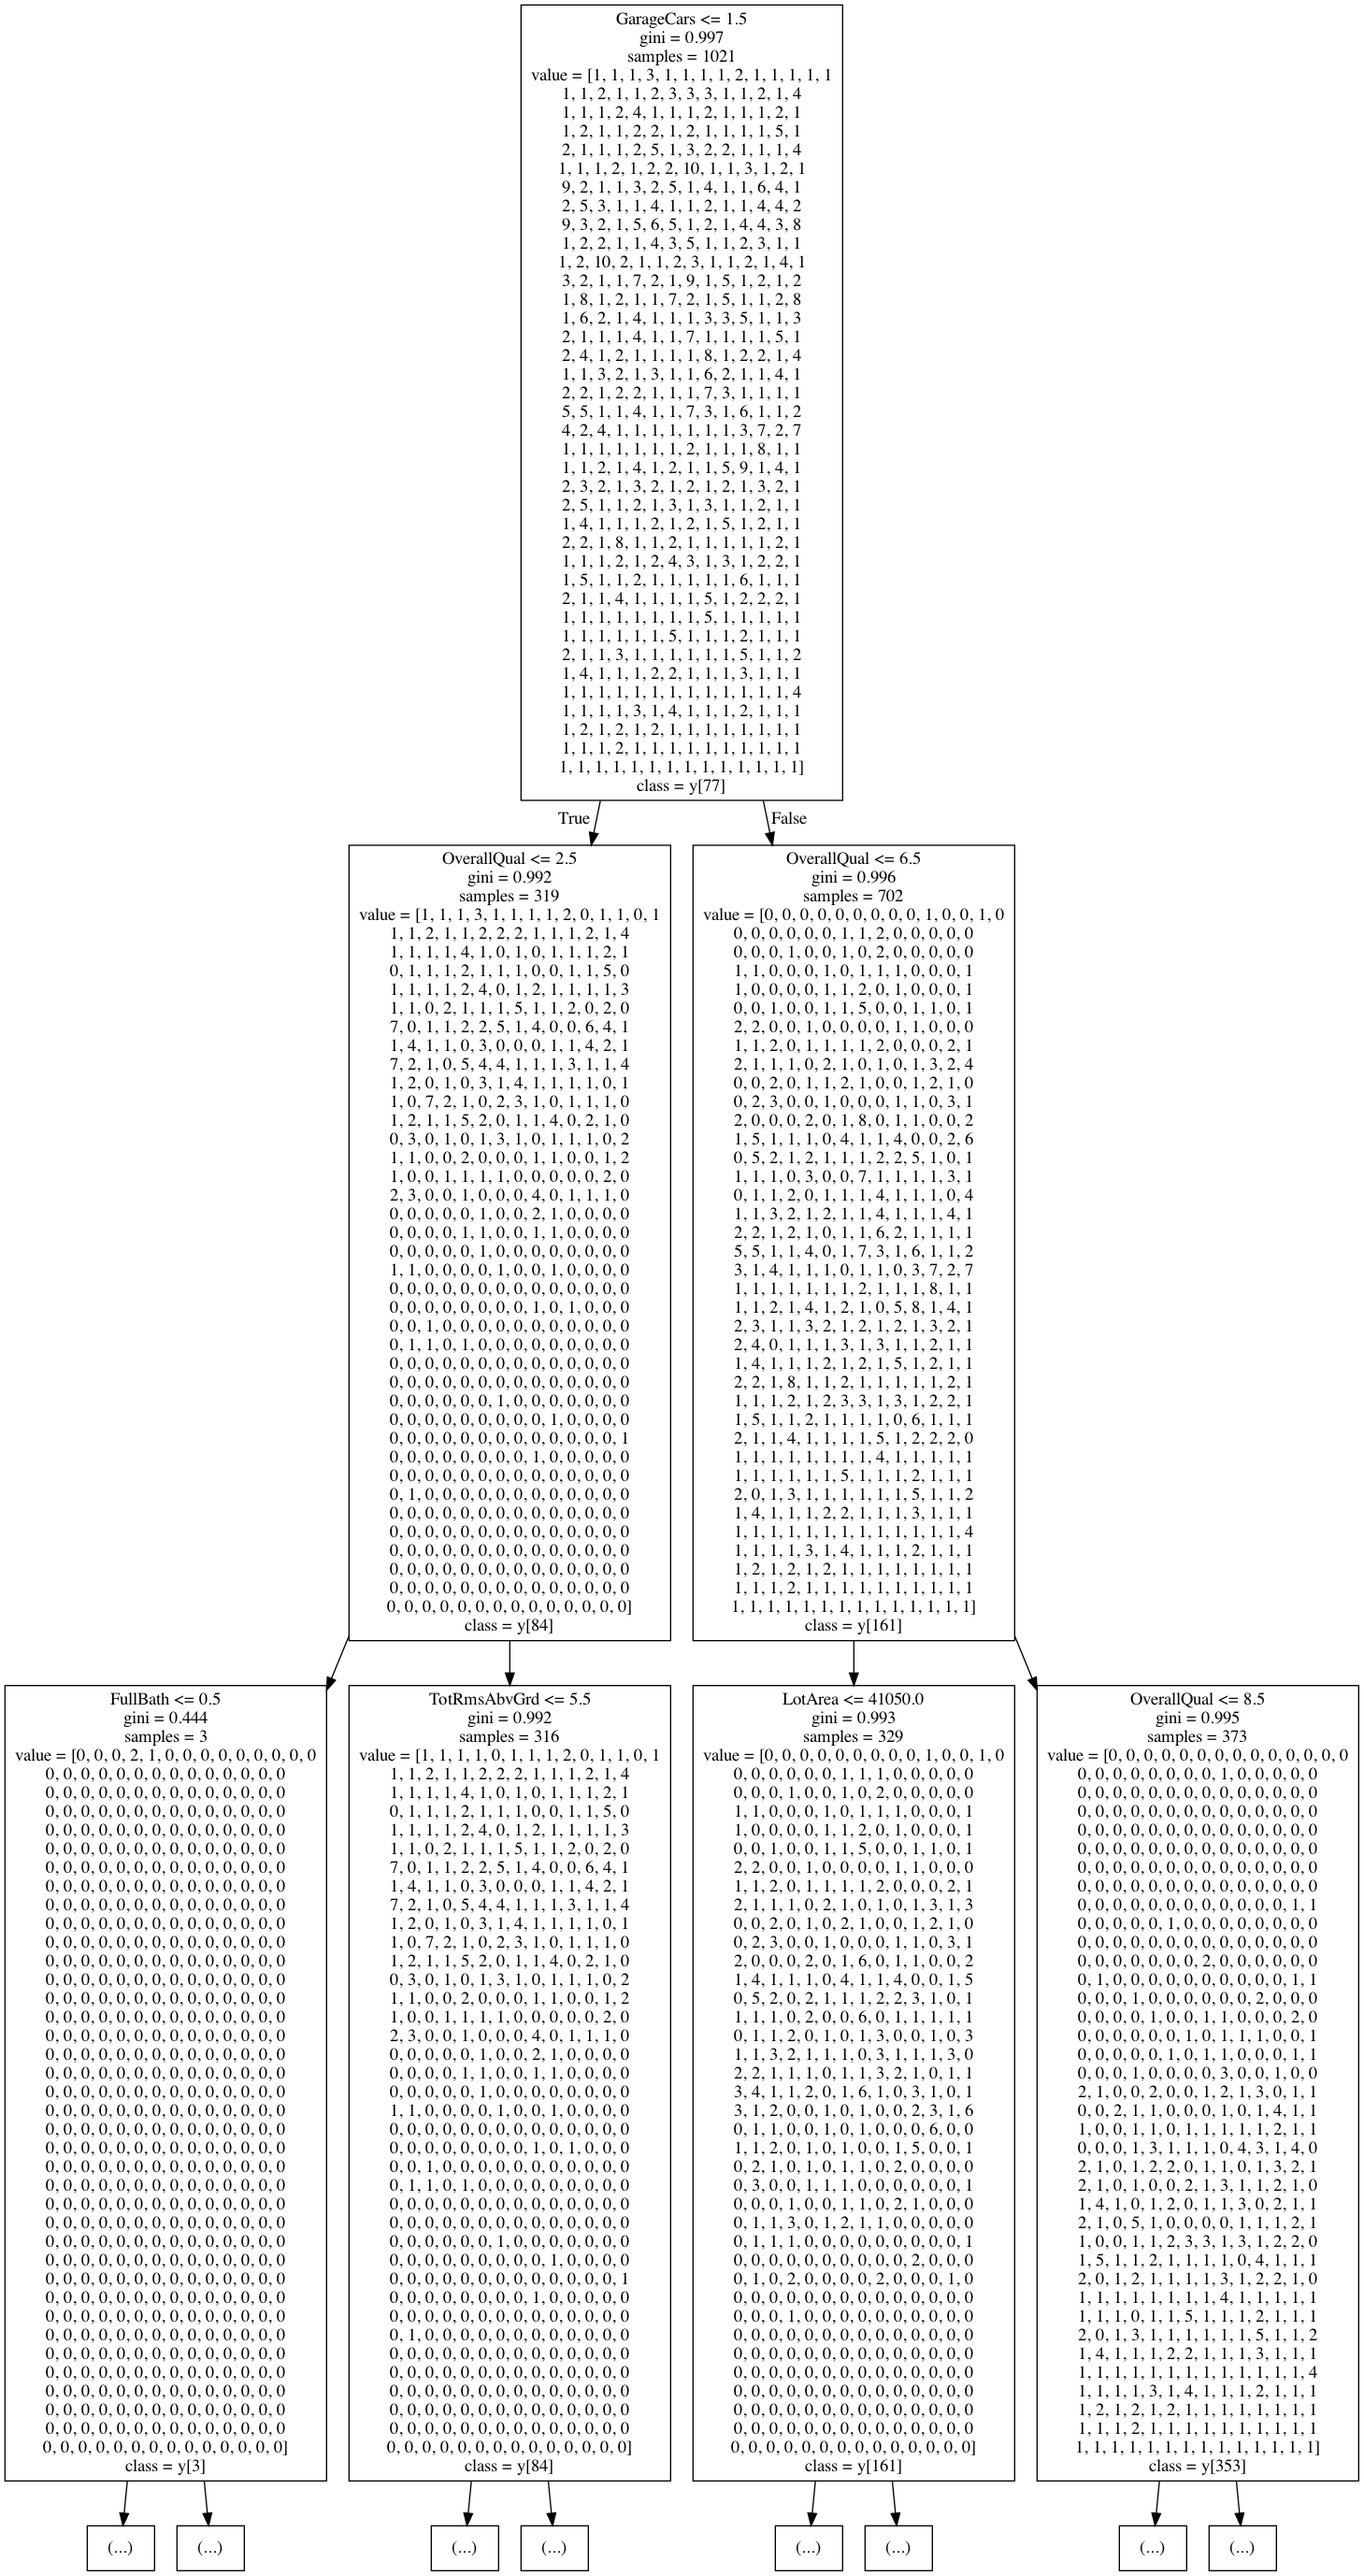
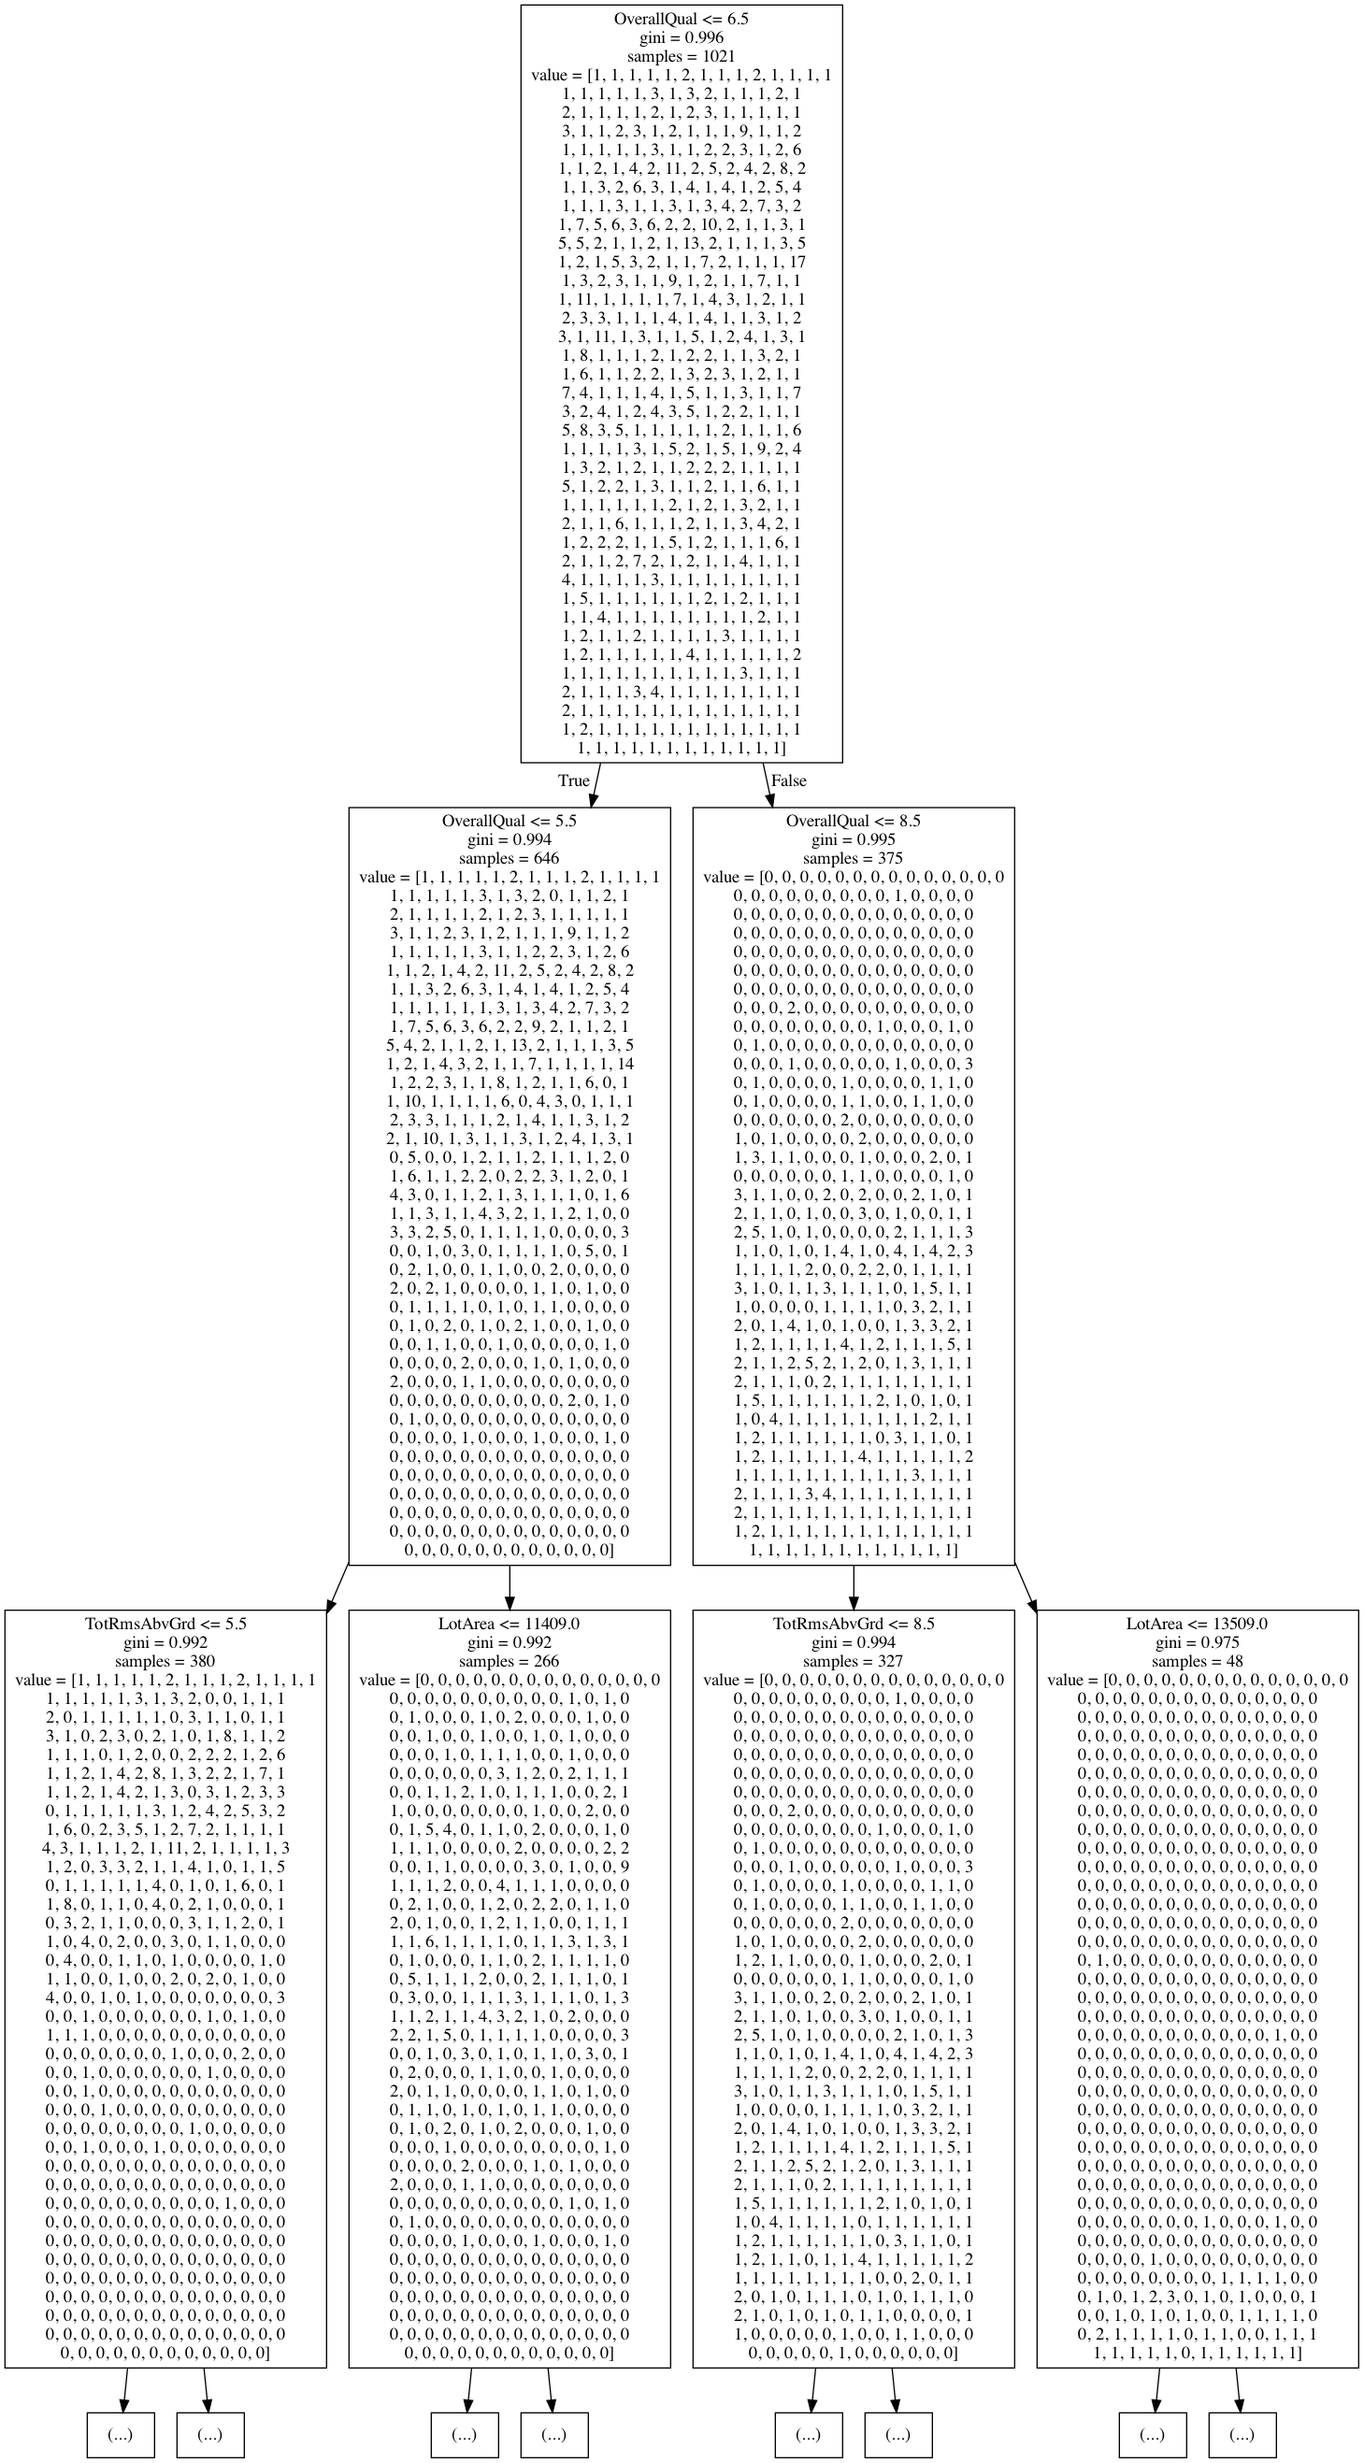
YAAAAA

diff --git a/src/decision_tree.py b/src/decision_tree.py
@@ -7,11 +7,15 @@ import pandas as pd
 import numpy as np
 import sklearn
 from sklearn import tree
+from sklearn import metrics
 from sklearn.model_selection import train_test_split
 from fcmeans import FCM
 import pyclustertend
 from sklearn import cluster 
+# from sklearn import RandomForestClassifier
+from sklearn.ensemble import RandomForestClassifier
 from reader import Reader
+
 
 
 
@@ -45,12 +49,12 @@ class main(object):
         X_scale = sklearn.preprocessing.scale(X)
         hop = pyclustertend.hopkins(X,len(X))
         
-        df = pd.DataFrame(df, columns=column_names)
-        return hop, X_scale, X, Y, df
+        # df = pd.DataFrame(df, columns=column_names)
+        return hop, X_scale, X, Y
 
     # fuzzy c-means algorithms 
     def fuzzy_cMeans(self):
-        hop, X_scale, X, Y, df = self.hopkins()
+        hop, X_scale, X, Y = self.hopkins()
         
         fcm = FCM(n_clusters = 5)
         fcm.fit(X)
@@ -65,7 +69,7 @@ class main(object):
         plt.show()
         
     def clusterNum(self):
-        hop, X_scale, X, Y, df = self.hopkins()
+        hop, X_scale, X, Y = self.hopkins()
         numeroClusters = range(1,11)
         wcss = []
         for i in numeroClusters:
@@ -98,21 +102,44 @@ class main(object):
 
         df_balance['SaleRange'] = df_balance['SaleRange'].astype('category')
         print(df_balance)
-        # print("\n df")
+
+        
+        print("\n df")
+        print(df.head)
         return df
         
     def trainTest(self):
         df = self.df
-        hop, X_scale, X, Y, df = self.hopkins()
-  
+        # hop, X_scale, X, Y = self.hopkins()
+        # df = df.copy()
 
-        X_train, X_test,y_train, y_test = train_test_split(X, Y, random_state =101, test_size=0.3,train_size=0.7)
-      
-        return X_train, X_test,y_train, y_test
+        # c_df = df.copy()
+       
+
+        y = df.pop('SalePrice')
+        column_names = ['LotArea','OverallQual', 'TotRmsAbvGrd', 'GarageCars', 'FullBath']
+       
+        X = np.array(df[column_names])
+
+        df = pd.DataFrame(df, columns=column_names)
+
+        
+
+        random.seed(123)
+        
+
+        X_train, X_test,y_train, y_test = train_test_split(X, y,test_size=0.3,train_size=0.7)
+        
+        # df = df[['SalePrice', 'LotArea','OverallQual', 'TotRmsAbvGrd', 'GarageCars', 'FullBath']]
+        # df
+        
+        #X_train, X_test,y_train, y_test = train_test_split(X, Y, random_state=10, test_size=0.3,train_size=0.7)
+        
+        return X_train, X_test,y_train, y_test, df
 
     def treeDepth(self):
-        df = self.df
-        X_train, X_test,y_train, y_test = self.trainTest()
+        
+        X_train, X_test,y_train, y_test, df = self.trainTest()
 
         train_accuracy = []
         test_accuracy = []
@@ -123,6 +150,8 @@ class main(object):
             
             train_accuracy.append(df.score(X_train, y_train))
             test_accuracy.append(df.score(X_test, y_test))
+
+            
 
         frame = pd.DataFrame({'max_depth':range(1, 10), 'train_acc':train_accuracy, 'test_acc':test_accuracy})
         print(frame.head())
@@ -139,8 +168,9 @@ class main(object):
         # EL DEPTH ES DE 3
 
     def decision_tree(self):
-        X_train, X_test,y_train, y_test = self.trainTest()
-        hop, X_scale, X, Y, df = self.hopkins()
+        
+        X_train, X_test,y_train, y_test, df = self.trainTest()
+       
 
         dt = tree.DecisionTreeClassifier(max_depth=3, random_state=10)
         dt.fit(X_train, y_train)
@@ -148,9 +178,40 @@ class main(object):
         feature_names = df.columns
         tree.export_graphviz(dt, out_file='tree.dot', feature_names=feature_names, class_names=True, max_depth=2)
         
+
+        y_pred = dt.predict(X_test)
+        print ("Accuracy:",metrics.accuracy_score(y_test, y_pred))
+        print ("Precision:", metrics.precision_score(y_test,y_pred,average="weighted", zero_division=1) )
+        print ("Recall: ", metrics.recall_score(y_test,y_pred,average="weighted", zero_division=1))
+
+
         # para correrlo tiene que descargar graphviz
         # despues -> dot -Tpng tree.dot -o tree.png
     
+    def regression_tree(self):
+        
+        X_train, X_test,y_train, y_test, df = self.trainTest()
+       
+
+        rt = tree.DecisionTreeRegressor(max_depth=3, random_state=10)
+        rt.fit(X_train, y_train)
+
+        feature_names = df.columns
+        tree.export_graphviz(rt, out_file='regression_tree.dot', feature_names=feature_names, class_names=True, max_depth=2)
+
+    def random_forest(self):
+        
+        X_train, X_test,y_train, y_test, df = self.trainTest()
+       
+        rf = RandomForestClassifier(max_depth=3, random_state=10)
+        rf.fit(X_train, y_train)
+
+        y_pred = rf.predict(X_test)
+        print ("Accuracy:",metrics.accuracy_score(y_test, y_pred))
+        print ("Precision:", metrics.precision_score(y_test,y_pred,average="weighted", zero_division=1) )
+        print ("Recall: ", metrics.recall_score(y_test,y_pred,average="weighted", zero_division=1))
+        
+
 
 driver = main('../train.csv')
 
@@ -158,5 +219,5 @@ driver = main('../train.csv')
 #print(driver.hopkins()[0])
 #driver.fuzzy_cMeans()
 # print(driver.clusterNum())
-driver.decision_tree()
+driver.random_forest()
     
